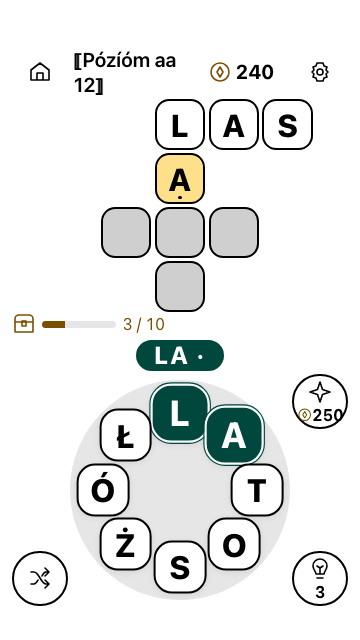
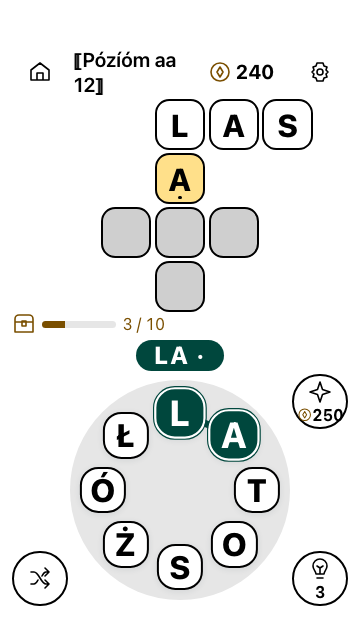
docs(ui): strengthen visual checks and space eight-letter tiles [T-0204]

Changed region(s): [[0.2139, 0.5938, 0.7944, 0.9375]]

diff --git a/docs/design/T-0204/level.css b/docs/design/T-0204/level.css
@@ -47,6 +47,8 @@
   --Palette-TILE_SELECTED: #00473D; --Palette-LINE: #00473D; --Palette-CELL_EMPTY: #CFCFCF; --Palette-CELL_FILLED: #FFFFFF;
   --Palette-CELL_HINTED: #FFE08A; --Palette-BONUS: #7A4F00; --Palette-COIN: #7A4F00; --Palette-STROKE: #000000;
 }
+/* Eight-letter proposal: keep enlarged selected tile corners clear of their neighbours. */
+[data-eight="true"] { --Layout-TILE_RADIUS_RATIO: .105; }
 * { box-sizing: border-box; } body { margin: 0; background: var(--Palette-BG); color: var(--Palette-TEXT); font-family: var(--Mock-font); }
 svg { width: 24px; height: 24px; fill: none; stroke: currentColor; stroke-width: 1.6; stroke-linecap: round; stroke-linejoin: round; }
 .symbols { position: absolute; width: 0; height: 0; } h1,h2,p { margin: 0; } b,small,.bonus { font-variant-numeric: tabular-nums; }

diff --git a/docs/design/T-0204/preview.js b/docs/design/T-0204/preview.js
@@ -16,6 +16,7 @@ if (document.body.classList.contains('comparison')) {
   const query = new URLSearchParams(location.search), root = document.documentElement;
   root.dataset.direction = directions.includes(query.get('direction')) ? query.get('direction') : 'ceramic';
   root.dataset.hc = String(query.get('hc') === '1');
+  root.dataset.eight = String(query.get('eight') === '1');
   root.style.setProperty('--Mock-text-scale', query.get('large') === '1' ? '1.3' : '1');
   if (query.get('insets') === '1') { root.style.setProperty('--Mock-top', '44px'); root.style.setProperty('--Mock-bottom', '34px'); }
   if (query.get('pseudo') === '1') {

diff --git a/docs/design/T-0204/README.md b/docs/design/T-0204/README.md
@@ -37,6 +37,9 @@ This is proposed geometry for review. Safe insets affect the actual layout class
 Standalone previews accept `direction=ceramic|paper|mist` and optional `hc=1`, `large=1`,
 `pseudo=1`, `eight=1`, `insets=1`. No saved preference, network request, audio or motion.
 The HC override preserves the existing token names; geometric letters remain unscaled at130%.
+Eight-letter mode proposes TILE_RADIUS_RATIO 0.105 (five-letter mode 0.12), keeping enlarged
+selected rectangles clear of neighbouring tiles. This is an unaccepted mockup value; the
+runtime geometry decision belongs to the later accepted-token/component tasks.
 No Godot component, theme, font, registry or locale file is changed. HTML labels carry the
 intended production key where applicable; icon aria labels describe the static fixture.
 
@@ -57,7 +60,9 @@ The runner opens local `file:` URLs and blocks external requests. It checks each
 and injected 44px/34px safe insets (288 cases), then three live resizes. Assertions cover scroll,
 safe-content bounds, fractional grid fitting, grid share, wheel/cell minimums, touch targets,
 button/tile hit-circle separation, displayed text/icon contrast including alpha, non-colour
-cues, token resolution, resource/console errors and deterministic comparison links.
+cues (painted hint dot, visible outlines, visible chain joining selected centres), pairwise
+tile separation, actual review-mode effects, token resolution, resource/console errors and
+deterministic comparison links.
 
 ## Evidence and open gates
 
@@ -70,6 +75,7 @@ stress and PSEUDO stress HC for each direction/viewport) and a comparison screen
 
 Browser checks exposed and corrected a too-small currency touch target, slightly insufficient
 grid share, fractional-pixel grid clipping and reduced contrast on the preview's dot cue.
+Eight-letter tile sizing also keeps selected corners from overlapping their neighbours.
 These corrections only affect the documentation mockups.
 
 Full local `make check` PASS: 275 GUT tests, 311 pipeline tests, 370 tools tests, registries and
